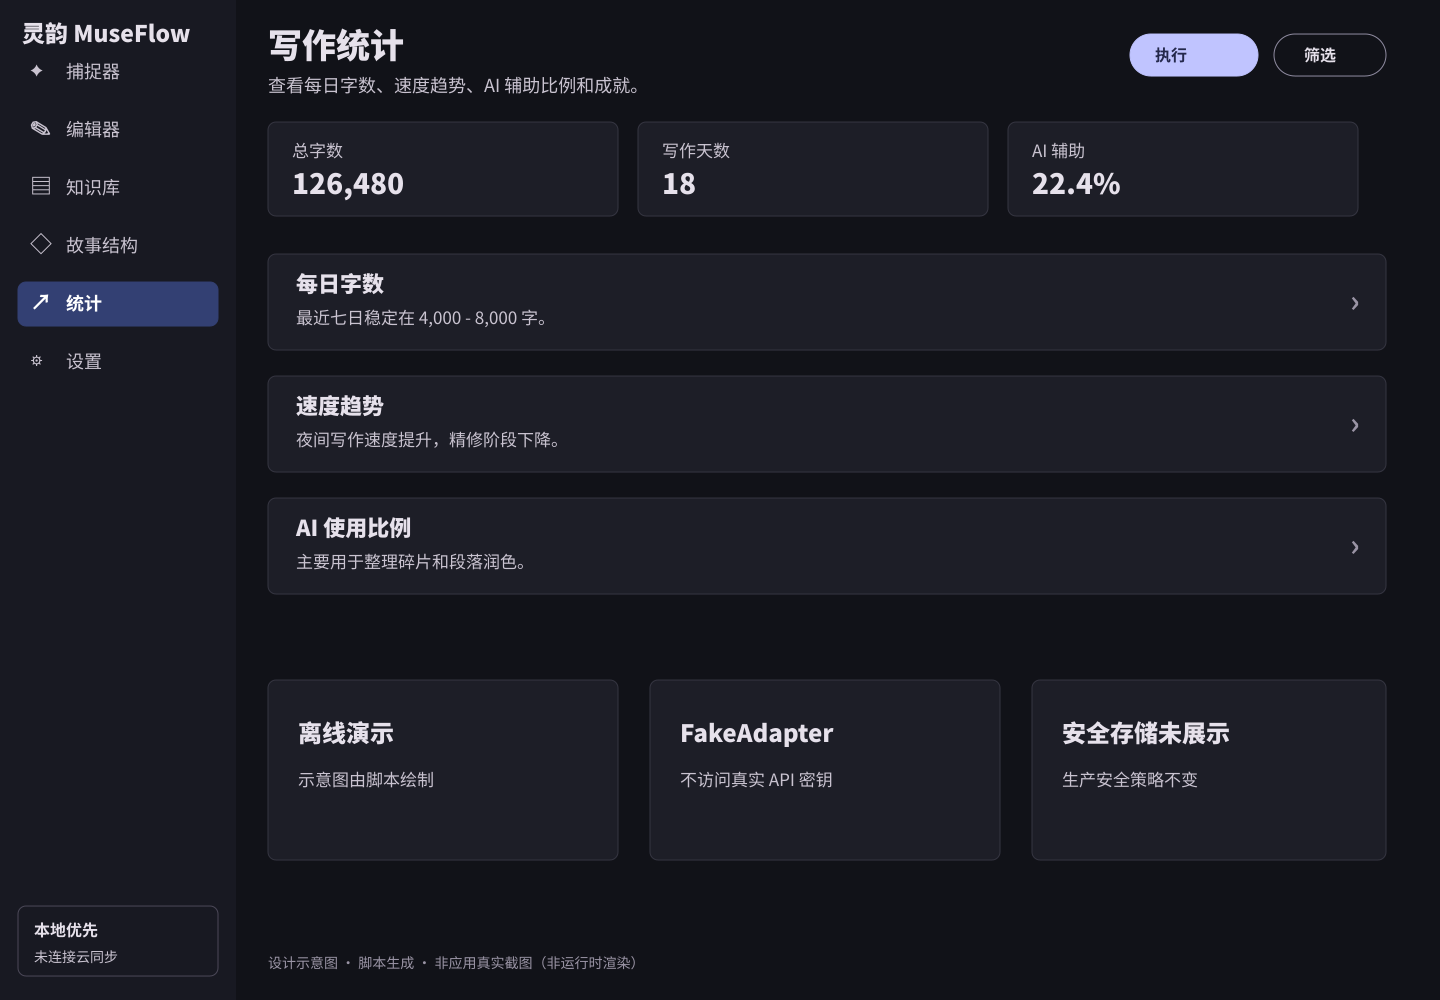
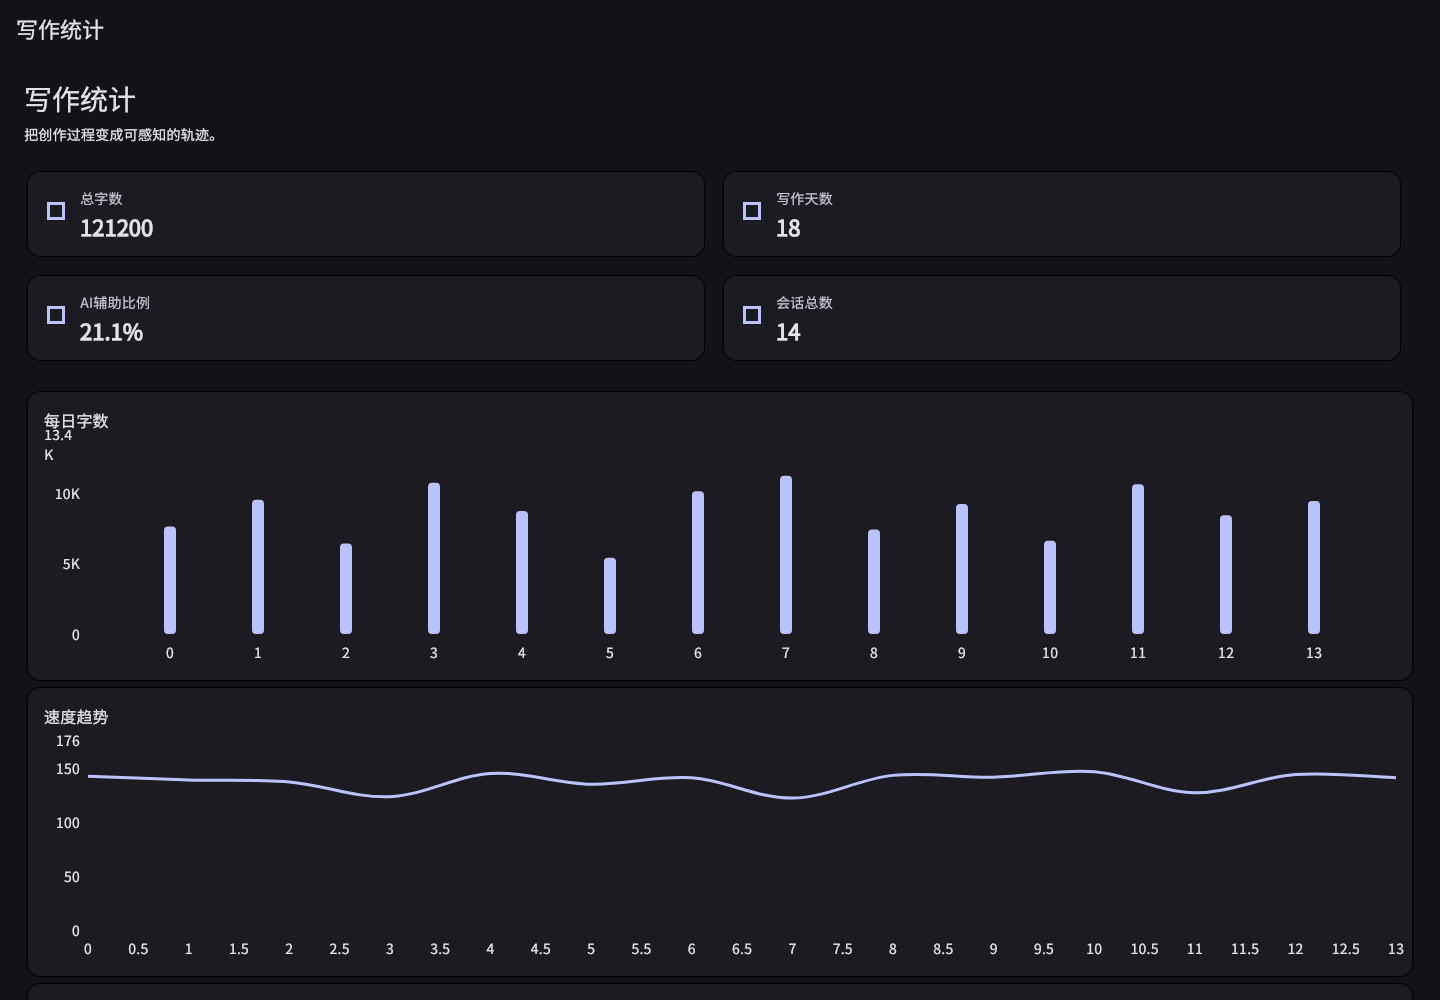
docs(readme): real golden render replaces writing-stats mockup
Migrate README #15 (写作统计) to a real widget render of WritingStatsPage —
the 6th truthful screenshot. Hybrid form: WritingStatsPage's debugSnapshot
param bypasses the writingStats provider, while the nested token-summary
section's tokenAuditNotifierProvider is overridden with a seed so it renders
real cards (not an empty state). Achievement badges render their honest
empty state (debugBadges=[]).

Seed is internally consistent and honest: StatsSnapshot totals (humanUnits,
aiUnits, editSeconds) are fold-computed from a 14-day daily list, giving an
AI-assist ratio of ~22.5% — not copied from the mockup but at the same
~12.6万字 scale. Token seed (6 records) totals likewise computed.

Two import pitfalls hit + documented: providers_stats.dart is 'part of
providers.dart' (import the parent); TokenAuditNotifier lives in
features/stats/application/ (separate import to subclass). All 3 charts
verified deterministic.

Verified: GREEN, golden 131471B(mockup)→67447B(real), PIL 759 colors /
97.3% dark / 2.0% text, full regression +6 GREEN (determinism), analyze
clean. README zh/en disclosures updated.

diff --git a/test/readme_screenshots/writing_stats_test.dart b/test/readme_screenshots/writing_stats_test.dart
@@ -1,0 +1,187 @@
+/// Real widget screenshot generator for the README writing-stats image (#15).
+///
+/// Renders the **actual** [WritingStatsPage] — 写作统计: daily word counts, speed
+/// trend, AI-usage ratio, achievement badges, and a token-usage summary — at
+/// 1440x1000 with seeded demo data, producing a truthful screenshot of the UI.
+///
+/// Uses [WritingStatsPage]'s `debugSnapshot` constructor param, which bypasses
+/// the writingStats provider chain and renders directly from a seeded
+/// [StatsSnapshot]. The nested token-summary section still watches
+/// `tokenAuditNotifierProvider`, so that provider is overridden with a seeded
+/// snapshot too (so the section renders real cards instead of an empty state).
+///
+/// Shares the bundled universal GB2312 subset `test_assets/noto_sans_sc_subset.ttf`.
+///
+/// Regenerate after changing the page or seed data:
+///   flutter test test/readme_screenshots/writing_stats_test.dart --update-goldens
+library;
+
+import 'dart:io';
+
+import 'package:flutter/material.dart';
+import 'package:flutter/services.dart';
+import 'package:flutter_riverpod/flutter_riverpod.dart';
+import 'package:flutter_test/flutter_test.dart';
+import 'package:museflow/core/presentation/providers.dart';
+import 'package:museflow/features/stats/domain/audit_operation_type.dart';
+import 'package:museflow/features/stats/domain/daily_writing_stats.dart';
+import 'package:museflow/features/stats/domain/stats_snapshot.dart';
+import 'package:museflow/features/stats/domain/token_audit_record.dart';
+import 'package:museflow/features/stats/application/token_audit_notifier.dart';
+import 'package:museflow/features/stats/infrastructure/token_audit_repository.dart';
+import 'package:museflow/features/stats/presentation/writing_stats_page.dart';
+
+void main() {
+  setUpAll(() async {
+    final bytes = await File('test_assets/noto_sans_sc_subset.ttf').readAsBytes();
+    final loader = FontLoader('Noto Sans CJK SC');
+    loader.addFont(Future.value(ByteData.sublistView(bytes)));
+    await loader.load();
+  });
+
+  testWidgets('WritingStatsPage renders a real 1440x1000 screenshot',
+      (tester) async {
+    tester.view.physicalSize = const Size(1440, 1000);
+    tester.view.devicePixelRatio = 1.0;
+    addTearDown(tester.view.resetPhysicalSize);
+    addTearDown(tester.view.resetDevicePixelRatio);
+
+    await tester.pumpWidget(
+      ProviderScope(
+        overrides: [
+          tokenAuditNotifierProvider.overrideWith(
+            () => _SeededTokenAuditNotifier(_buildTokenAuditSeed()),
+          ),
+        ],
+        child: MaterialApp(
+          debugShowCheckedModeBanner: false,
+          theme: _screenshotTheme(),
+          home: WritingStatsPage(debugSnapshot: _buildWritingStatsSeed()),
+        ),
+      ),
+    );
+    await tester.pumpAndSettle();
+
+    // Prove the seeded data rendered (not empty / loading / error). '写作统计'
+    // is the AppBar title + body headline (=2); '每日字数' is the first chart
+    // section title (unique, above fold). Only above-the-fold content is
+    // asserted (the page is a tall ListView). CJK rasterization correctness
+    // follows from the registered universal subset.
+    expect(find.text('写作统计'), findsNWidgets(2));
+    expect(find.text('每日字数'), findsOneWidget);
+
+    await expectLater(
+      find.byType(WritingStatsPage),
+      matchesGoldenFile('../../docs/readme/screenshots/15-writing-stats.png'),
+    );
+  });
+}
+
+/// Writing-stats seed: totals + AI ratio internally consistent (aiUnits /
+/// totalUnits ≈ 22.5%), 14 days of daily breakdown for the bar + trend charts.
+/// Totals are honest order-of-magnitude for a mid-draft manuscript (not copied
+/// from the mockup verbatim, but consistent with the same ~12.6万字 scale).
+StatsSnapshot _buildWritingStatsSeed() {
+  // (humanUnits, aiUnits, editSeconds) per day over 14 days — varied so the
+  // bar + trend charts look natural rather than uniform.
+  const daily = <(int, int, int)>[
+    (6100, 1500, 3200),
+    (7400, 2100, 4100),
+    (5200, 1200, 2800),
+    (8300, 2400, 5200),
+    (6900, 1800, 3600),
+    (4500, 900, 2400),
+    (7800, 2300, 4300),
+    (8600, 2600, 5500),
+    (6000, 1400, 3100),
+    (7200, 2000, 3900),
+    (5500, 1100, 2700),
+    (8100, 2500, 5000),
+    (6700, 1700, 3500),
+    (7300, 2100, 4000),
+  ];
+  final now = DateTime.now();
+  final dailyStats = <DailyWritingStats>[
+    for (var i = 0; i < daily.length; i++)
+      DailyWritingStats(
+        dateKey: _dateKey(now.subtract(Duration(days: daily.length - 1 - i))),
+        humanUnits: daily[i].$1,
+        aiUnits: daily[i].$2,
+        sessionCount: 1,
+        editSeconds: daily[i].$3,
+      ),
+  ];
+  final humanUnits = daily.fold(0, (s, d) => s + d.$1);
+  final aiUnits = daily.fold(0, (s, d) => s + d.$2);
+  return StatsSnapshot(
+    totalUnits: humanUnits + aiUnits,
+    humanUnits: humanUnits,
+    aiUnits: aiUnits,
+    writingDays: 18,
+    sessionCount: daily.length,
+    editSeconds: daily.fold(0, (s, d) => s + d.$3),
+    daily: dailyStats,
+  );
+}
+
+/// Token-audit seed for the nested token-summary section: 6 records, totals
+/// computed from them (consistent). Reuses the vr3 honesty approach.
+TokenAuditSnapshot _buildTokenAuditSeed() {
+  final now = DateTime.now();
+  const spec = <(AuditOperationType, int, int, int)>[
+    (AuditOperationType.synthesis, 6, 6200, 2800),
+    (AuditOperationType.polish, 5, 4100, 1900),
+    (AuditOperationType.deviationDetect, 4, 5300, 600),
+    (AuditOperationType.rewrite, 3, 4500, 2200),
+    (AuditOperationType.polish, 2, 3900, 1700),
+    (AuditOperationType.synthesis, 1, 6800, 3100),
+  ];
+  final records = <TokenAuditRecord>[
+    for (var i = 0; i < spec.length; i++)
+      TokenAuditRecord(
+        id: 'ws-rec-$i',
+        inputTokens: spec[i].$3,
+        outputTokens: spec[i].$4,
+        modelName: 'glm-4-flash',
+        operationType: spec[i].$1,
+        manuscriptId: 'm1',
+        chapterId: '第${i + 1}章',
+        timestamp: now.subtract(Duration(days: spec[i].$2, hours: i)),
+      ),
+  ];
+  return TokenAuditSnapshot(
+    totalInputTokens: records.fold(0, (s, r) => s + r.inputTokens),
+    totalOutputTokens: records.fold(0, (s, r) => s + r.outputTokens),
+    totalCalls: records.length,
+    records: records,
+  );
+}
+
+String _dateKey(DateTime d) =>
+    '${d.year}-${d.month.toString().padLeft(2, '0')}-${d.day.toString().padLeft(2, '0')}';
+
+/// Override for tokenAuditNotifierProvider returning a fixed seed snapshot.
+class _SeededTokenAuditNotifier extends TokenAuditNotifier {
+  _SeededTokenAuditNotifier(this._seed);
+
+  final TokenAuditSnapshot _seed;
+
+  @override
+  Future<TokenAuditSnapshot> build() async => _seed;
+}
+
+ThemeData _screenshotTheme() {
+  final colorScheme = ColorScheme.fromSeed(
+    seedColor: Colors.indigo,
+    brightness: Brightness.dark,
+  );
+  final base = Typography.material2021().white.apply(fontFamily: 'Noto Sans CJK SC');
+  return ThemeData(
+    colorScheme: colorScheme,
+    useMaterial3: true,
+    textTheme: base.apply(
+      bodyColor: colorScheme.onSurface,
+      displayColor: colorScheme.onSurface,
+    ),
+  );
+}

diff --git a/README.en.md b/README.en.md
@@ -36,7 +36,7 @@ The Chinese name, 灵韵, means the spirit and rhythm of inspiration. MuseFlow c
 
 ## User Journey & UI Mockups
 
-The images below illustrate each feature module. The **Manuscript library** (1st image), the **Token audit** (16th image), the **Analysis reports hub** (17th image), the **Report details** (18th image) and the **AI phrase filter** (21st image) are real widget renders, deterministically produced by the golden tests under `test/readme_screenshots/` (with a bundled Noto Sans CJK SC subset for cross-platform-consistent Chinese, using offline demo data); the rest are design mockups programmatically drawn by `scripts/generate_readme_screenshots.mjs` (SVG → PNG, not live renders). We follow a xianxia serial author's journey to walk through idea capture, manuscript management, chapter writing, knowledge management, structure tracking, analytics, and model configuration. All images use offline demo data and never read real API keys; real screenshots are being migrated page-by-page from mockups via golden tests.
+The images below illustrate each feature module. The **Manuscript library** (1st image), the **Writing stats** (15th image), the **Token audit** (16th image), the **Analysis reports hub** (17th image), the **Report details** (18th image) and the **AI phrase filter** (21st image) are real widget renders, deterministically produced by the golden tests under `test/readme_screenshots/` (with a bundled Noto Sans CJK SC subset for cross-platform-consistent Chinese, using offline demo data); the rest are design mockups programmatically drawn by `scripts/generate_readme_screenshots.mjs` (SVG → PNG, not live renders). We follow a xianxia serial author's journey to walk through idea capture, manuscript management, chapter writing, knowledge management, structure tracking, analytics, and model configuration. All images use offline demo data and never read real API keys; real screenshots are being migrated page-by-page from mockups via golden tests.
 
 ### 1. Manage Multiple Works
 
@@ -167,7 +167,7 @@ flutter test
 flutter build web --release
 ```
 
-This README's showcase material: the **Manuscript library** (01), the **Token audit** (16), the **Analysis reports hub** (17), the **Report details** (18) and the **AI phrase filter** (21) are real widget renders (generated by golden tests), the rest are design mockups drawn by `scripts/generate_readme_screenshots.mjs` (SVG → PNG). All use offline demo data with no real API keys; real screenshots are being migrated page-by-page from mockups via golden tests.
+This README's showcase material: the **Manuscript library** (01), the **Writing stats** (15), the **Token audit** (16), the **Analysis reports hub** (17), the **Report details** (18) and the **AI phrase filter** (21) are real widget renders (generated by golden tests), the rest are design mockups drawn by `scripts/generate_readme_screenshots.mjs` (SVG → PNG). All use offline demo data with no real API keys; real screenshots are being migrated page-by-page from mockups via golden tests.
 
 ## v1.3 User Journey Showcase
 